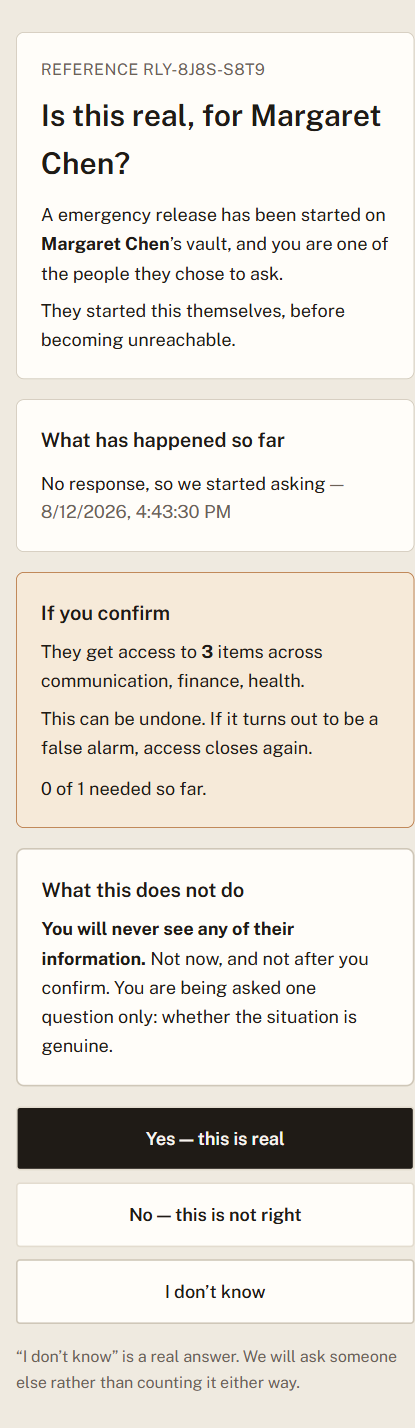
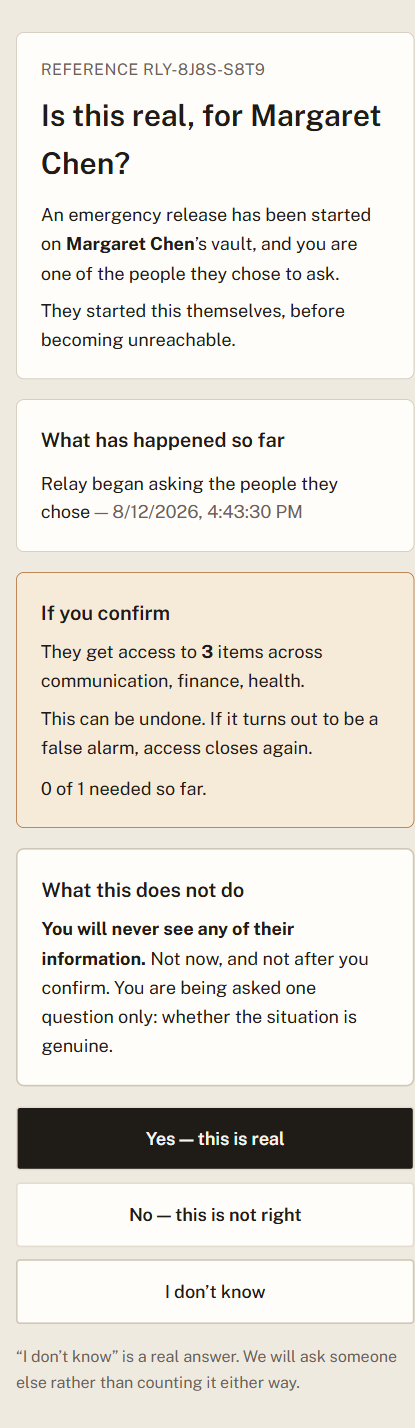
Give deny the same prominence as confirm, as J7-R6 requires
"Yes — this is real" was a filled black button; "No — this is not right"
was an outline. Equal effort, unequal prominence -- on the one screen
whose stated failure mode is rubber-stamping, and whose own file header
claims all three answers carry equal weight.

The requirement is explicit: "Deny SHALL be presented with equal
prominence and equal effort to confirm." A page that visually leans on
"yes" is a page that produces more of them, and the whole value of a
verifier is that they might say no.

All three now share one treatment. The words differ; nothing else does.

Found by looking at the rendered decision page on production -- every
measurable property (size, position, click count) was already equal,
which is exactly why measurement had never caught it.

Changed region(s): [[0.0867, 0.1232, 0.9253, 0.2157], [0.0867, 0.3081, 0.8096, 0.3697]]

diff --git a/src/app/(verify)/verify/VerifyClient.tsx b/src/app/(verify)/verify/VerifyClient.tsx
@@ -274,12 +274,22 @@ export default function VerifyClient() {
       </div>
 
       {/* Three actions of equal weight (J7-R6) */}
+      {/*
+        🔴 J7-R6: "Deny SHALL be presented with EQUAL PROMINENCE and equal
+        effort to confirm." Until 2026-08-12 "Yes" was a filled black button and
+        "No" was an outline — equal effort, unequal prominence, on the screen
+        whose stated failure mode is rubber-stamping. The file header claimed
+        all three carried equal weight; the render did not.
+
+        All three now share one treatment. The words differ; nothing else does,
+        so nothing on the page leans on the answer.
+      */}
       <div className="space-y-3">
         <button
           type="button"
           disabled={busy}
           onClick={() => decide('confirm')}
-          className="w-full rounded border-2 border-rule bg-ink px-5 py-4 font-semibold text-paper hover:bg-ink disabled:opacity-50"
+          className="w-full rounded border-2 border-rule-strong bg-paper-raised px-5 py-4 font-semibold text-ink hover:bg-paper-sunken disabled:opacity-50"
         >
           Yes — this is real
         </button>
@@ -287,7 +297,7 @@ export default function VerifyClient() {
           type="button"
           disabled={busy}
           onClick={() => decide('deny')}
-          className="w-full rounded border-2 border-rule bg-paper-raised px-5 py-4 font-semibold text-ink hover:bg-paper-sunken disabled:opacity-50"
+          className="w-full rounded border-2 border-rule-strong bg-paper-raised px-5 py-4 font-semibold text-ink hover:bg-paper-sunken disabled:opacity-50"
         >
           No — this is not right
         </button>
